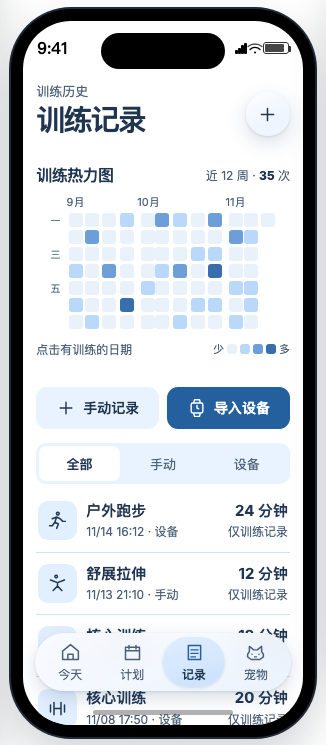
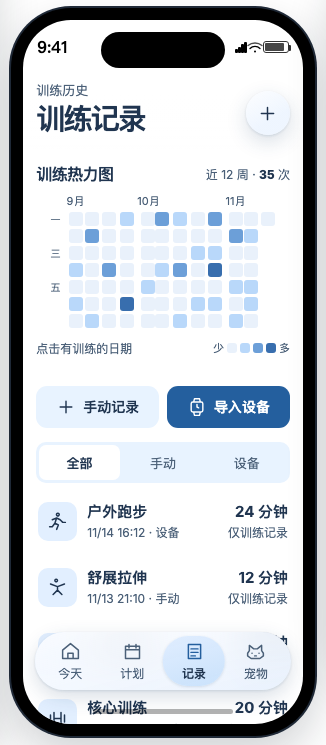
Replace horizontal dividers with breathing room

diff --git a/design-demos/ios-prototype.html b/design-demos/ios-prototype.html
@@ -410,8 +410,15 @@ a { color: inherit; }
 }
 [data-glass] .board-controls button:hover { background: var(--activity); }
 [data-glass] :is(.habitat, .today-task, .week-card, .primary, .secondary, .day, .toast) { border: 0; }
+[data-glass] :is(.board-header, .board-footer p, .week-total, .list-row, .sheet dl div, .choice) { border-block: 0; }
 [data-glass] :is(.today-task, .week-card) { padding-inline: 0; }
+[data-glass] .week-card { margin-bottom: 21px; }
+[data-glass] .week-days { gap: 3px; margin-block: 12px 8px; }
+[data-glass] .week-total { padding-top: 11px; }
+[data-glass] .plan-list { margin-bottom: 12px; }
 [data-glass] .day[aria-pressed="true"] { background: #cfe5fd; }
+[data-glass] .list-row { padding-block: 13px; gap: 10px; border-radius: 10px; }
+[data-glass] :is(.sheet dl div, .choice) { padding-block: 11px; }
 [data-glass] .app-scroll {
   padding-bottom: 111px;
   scroll-padding-block: 77px 111px;
@@ -620,8 +627,7 @@ a { color: inherit; }
 .pet-scene-panel .growth-bar { background-color: #c8dcf2; }
 .pet-scene-panel .pet-options { margin: 5px 0; }
 .pet-scene-panel .pet-options .empty-copy { padding-block: 1px; font-size: 13px; }
-.pet-scene-panel .list-row { min-height: 48px; padding: 5px 2px; }
-.pet-scene-panel .list-row:last-child { border-bottom: 0; }
+.pet-scene-panel .list-row { min-height: 50px; padding: 7px 2px; }
 .pet-scene-panel .activity { width: 34px; height: 34px; }
 .habitat-continue {
   position: absolute;

diff --git a/design-demos/src/glass.css b/design-demos/src/glass.css
@@ -26,8 +26,15 @@
 }
 [data-glass] .board-controls button:hover { background: var(--activity); }
 [data-glass] :is(.habitat, .today-task, .week-card, .primary, .secondary, .day, .toast) { border: 0; }
+[data-glass] :is(.board-header, .board-footer p, .week-total, .list-row, .sheet dl div, .choice) { border-block: 0; }
 [data-glass] :is(.today-task, .week-card) { padding-inline: 0; }
+[data-glass] .week-card { margin-bottom: 21px; }
+[data-glass] .week-days { gap: 3px; margin-block: 12px 8px; }
+[data-glass] .week-total { padding-top: 11px; }
+[data-glass] .plan-list { margin-bottom: 12px; }
 [data-glass] .day[aria-pressed="true"] { background: #cfe5fd; }
+[data-glass] .list-row { padding-block: 13px; gap: 10px; border-radius: 10px; }
+[data-glass] :is(.sheet dl div, .choice) { padding-block: 11px; }
 [data-glass] .app-scroll {
   padding-bottom: 111px;
   scroll-padding-block: 77px 111px;
@@ -236,8 +243,7 @@
 .pet-scene-panel .growth-bar { background-color: #c8dcf2; }
 .pet-scene-panel .pet-options { margin: 5px 0; }
 .pet-scene-panel .pet-options .empty-copy { padding-block: 1px; font-size: 13px; }
-.pet-scene-panel .list-row { min-height: 48px; padding: 5px 2px; }
-.pet-scene-panel .list-row:last-child { border-bottom: 0; }
+.pet-scene-panel .list-row { min-height: 50px; padding: 7px 2px; }
 .pet-scene-panel .activity { width: 34px; height: 34px; }
 .habitat-continue {
   position: absolute;
